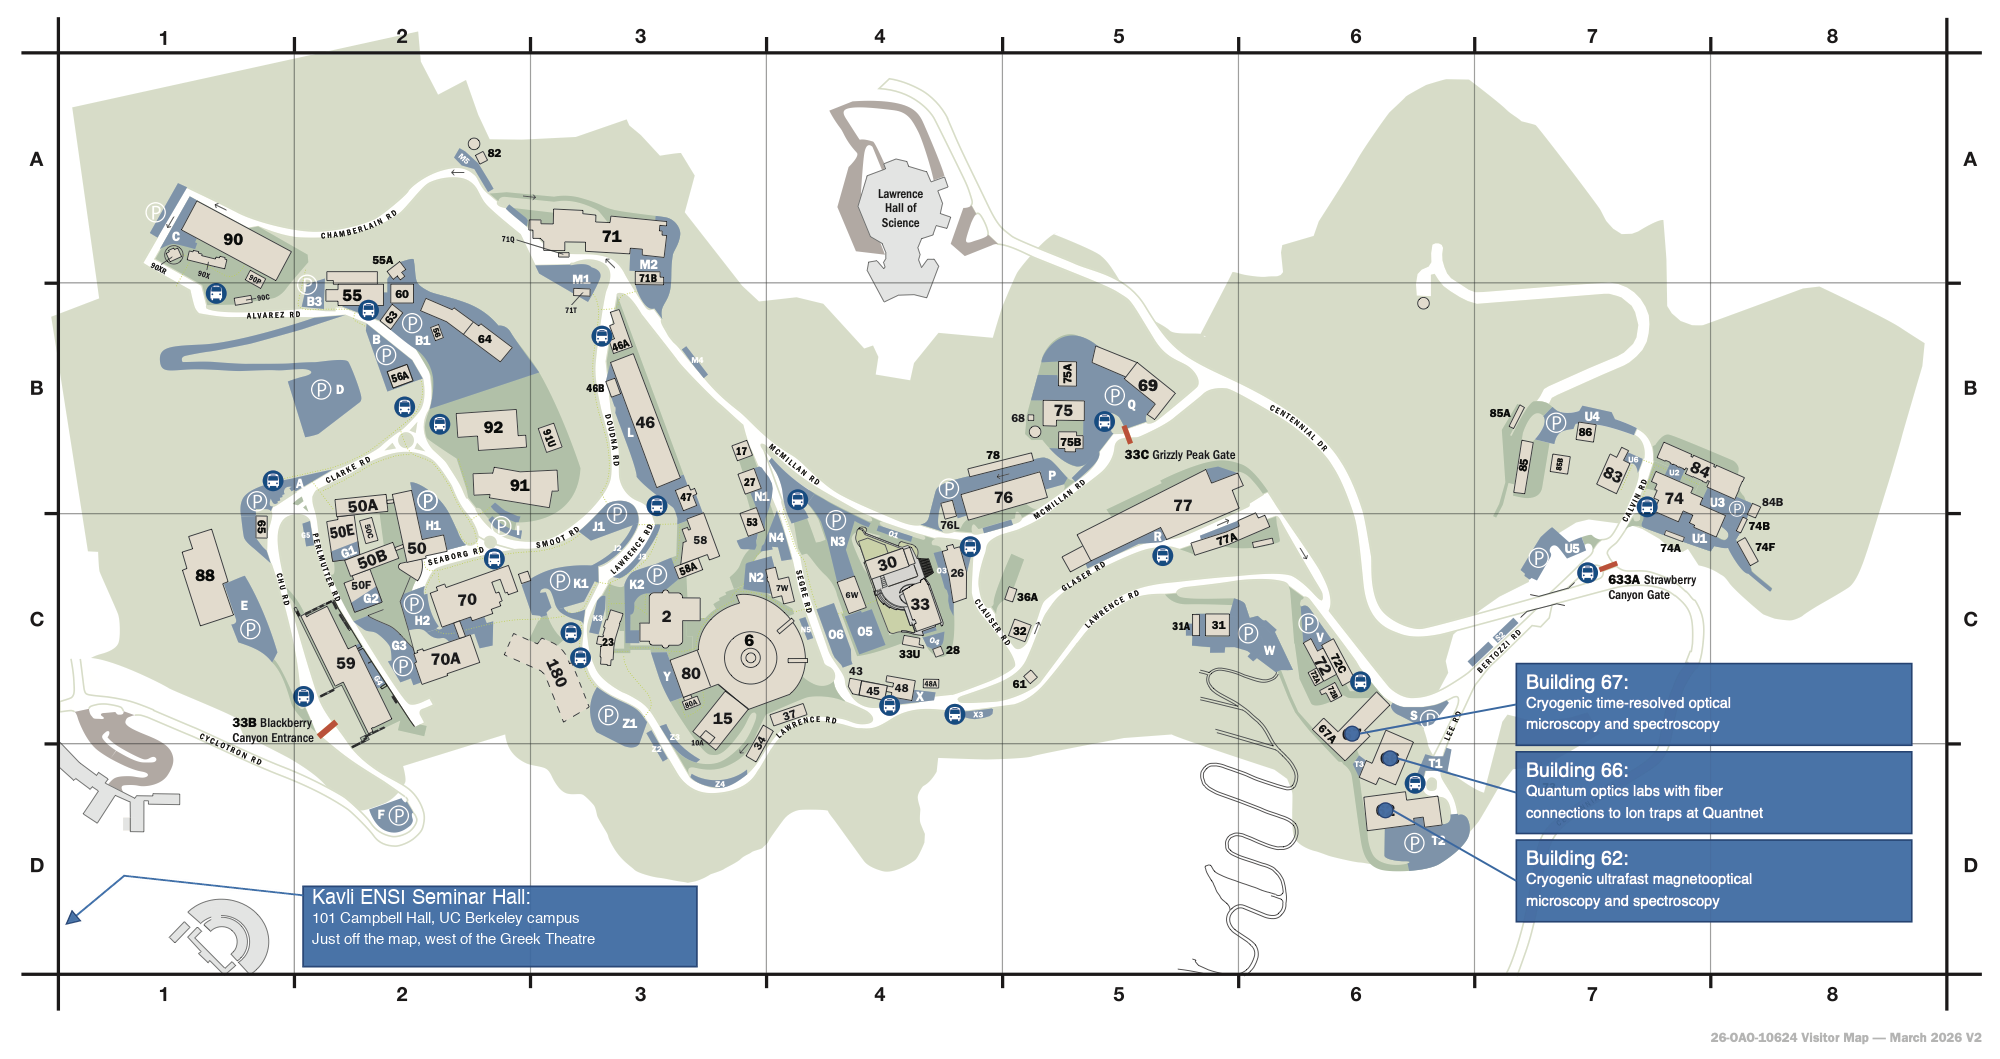
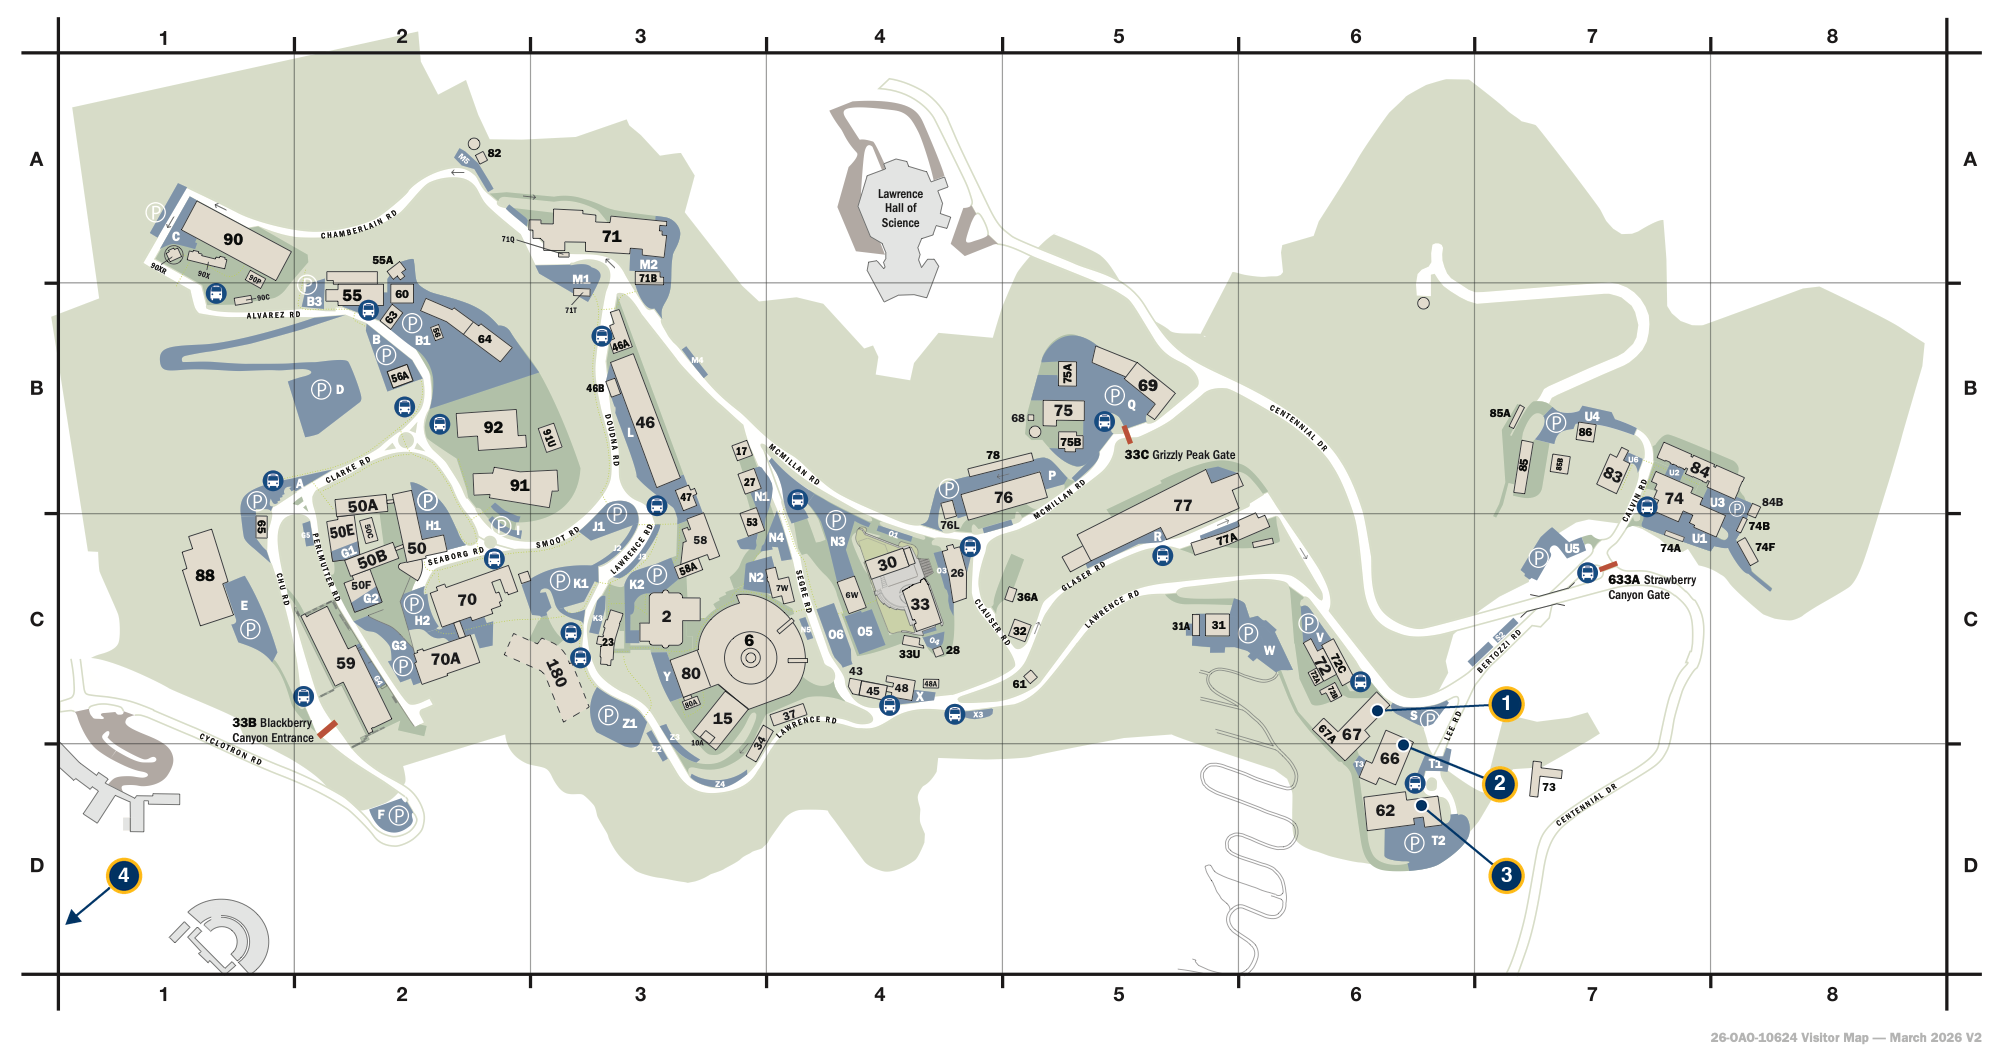
Visit map: numbered markers with an HTML legend instead of image-text callouts
The callout text was baked into the map image and shrank to about 7px on
desktop, and screen readers couldn't read it. The image now carries only
navy-and-gold numbered markers (1-3 on Buildings 67/66/62, 4 an arrow off
the bottom-left corner toward Campbell Hall). The descriptions moved into an
ordered list under the map in 15px page text, two columns on desktop and
one on phones.

The base map is re-rendered from the PDF without its callouts, in Display P3
like the original export, so the colors are unchanged. The full-size PDF
keeps its text callouts.

diff --git a/visit.html b/visit.html
@@ -122,9 +122,27 @@
             <p class="visit-map__tagline">Where you can find Raja Labs’ group members, collaborators and users, plus the Kavli ENSI seminar hall on the UC Berkeley campus.</p>
           </figcaption>
           <a href="assets/lbnl-optics-labs-map.pdf" target="_blank" rel="noopener" class="visit-map__link">
-            <img src="assets/lbnl-optics-labs-map.png" width="2000" height="1059" loading="lazy" alt="Berkeley Lab site map highlighting Raja Labs’ optics labs: Building 67, cryogenic time-resolved optical microscopy and spectroscopy; Building 66, quantum optics labs with fiber connections to ion traps at Quantnet; Building 62, cryogenic ultrafast magneto-optical microscopy and spectroscopy. A fourth callout points just off the map’s bottom-left corner to the Kavli ENSI Seminar Hall, 101 Campbell Hall, on the UC Berkeley campus, west of the Greek Theatre.">
+            <img src="assets/lbnl-optics-labs-map.png" width="2000" height="1059" loading="lazy" alt="Berkeley Lab site map. Numbered markers 1, 2 and 3 point to Buildings 67, 66 and 62 at the Molecular Foundry; marker 4 is an arrow off the map’s bottom-left corner toward Campbell Hall on the UC Berkeley campus. Each location is described in the list below the map.">
             <span class="sr-only"> (full-size PDF, opens in a new tab)</span>
           </a>
+          <ol class="visit-map__legend" role="list">
+            <li class="visit-map__item">
+              <span class="visit-map__num">1</span>
+              <p class="visit-map__text"><strong>Building 67</strong>Cryogenic time-resolved optical microscopy and spectroscopy</p>
+            </li>
+            <li class="visit-map__item">
+              <span class="visit-map__num">2</span>
+              <p class="visit-map__text"><strong>Building 66</strong>Quantum optics labs with fiber connections to ion traps at Quantnet</p>
+            </li>
+            <li class="visit-map__item">
+              <span class="visit-map__num">3</span>
+              <p class="visit-map__text"><strong>Building 62</strong>Cryogenic ultrafast magneto-optical microscopy and spectroscopy</p>
+            </li>
+            <li class="visit-map__item">
+              <span class="visit-map__num">4</span>
+              <p class="visit-map__text"><strong>Kavli ENSI Seminar Hall, 101 Campbell Hall</strong>UC Berkeley campus, just off the map past the bottom-left corner, west of the Greek Theatre</p>
+            </li>
+          </ol>
         </figure>
       </div>
     </section>

diff --git a/css/styles.css b/css/styles.css
@@ -753,6 +753,32 @@ img.member__photo { display: block; border-radius: 50%; object-fit: cover; }
 .visit-map__tagline { margin: 0; font-size: 14px; line-height: 1.6; color: var(--muted); }
 .visit-map__link { display: block; border-radius: 4px; }
 .visit-map__link img { display: block; width: 100%; height: auto; }
+.visit-map__legend {
+  list-style: none;
+  margin: 24px 0 0;
+  padding: 0;
+  display: grid;
+  grid-template-columns: repeat(2, minmax(0, 1fr));
+  gap: 18px 40px;
+}
+.visit-map__item { display: flex; gap: 14px; align-items: flex-start; }
+/* Matches the numbered markers drawn on the map image. */
+.visit-map__num {
+  flex: none;
+  display: grid;
+  place-items: center;
+  width: 32px; height: 32px;
+  border: 3px solid var(--gold);
+  border-radius: 50%;
+  background: var(--blue);
+  color: #fff;
+  font-family: var(--display);
+  font-weight: 800;
+  font-size: 15px;
+  line-height: 1;
+}
+.visit-map__text { margin: 3px 0 0; font-size: 15px; line-height: 1.6; color: var(--muted); }
+.visit-map__text strong { display: block; color: var(--ink); font-weight: 600; }
 
 .sr-only {
   position: absolute;
@@ -1043,6 +1069,7 @@ img.member__photo { display: block; border-radius: 50%; object-fit: cover; }
   .pi__links { justify-content: center; }
   .pi__bio { text-align: left; }
   .visit-map { padding: 20px 16px 16px; }
+  .visit-map__legend { grid-template-columns: minmax(0, 1fr); }
   .visit-intro__body { padding: 20px 20px 24px; }
   .faq__a { padding-right: 0; }
   .access { grid-template-columns: minmax(0, 1fr); padding: 28px 24px; }
